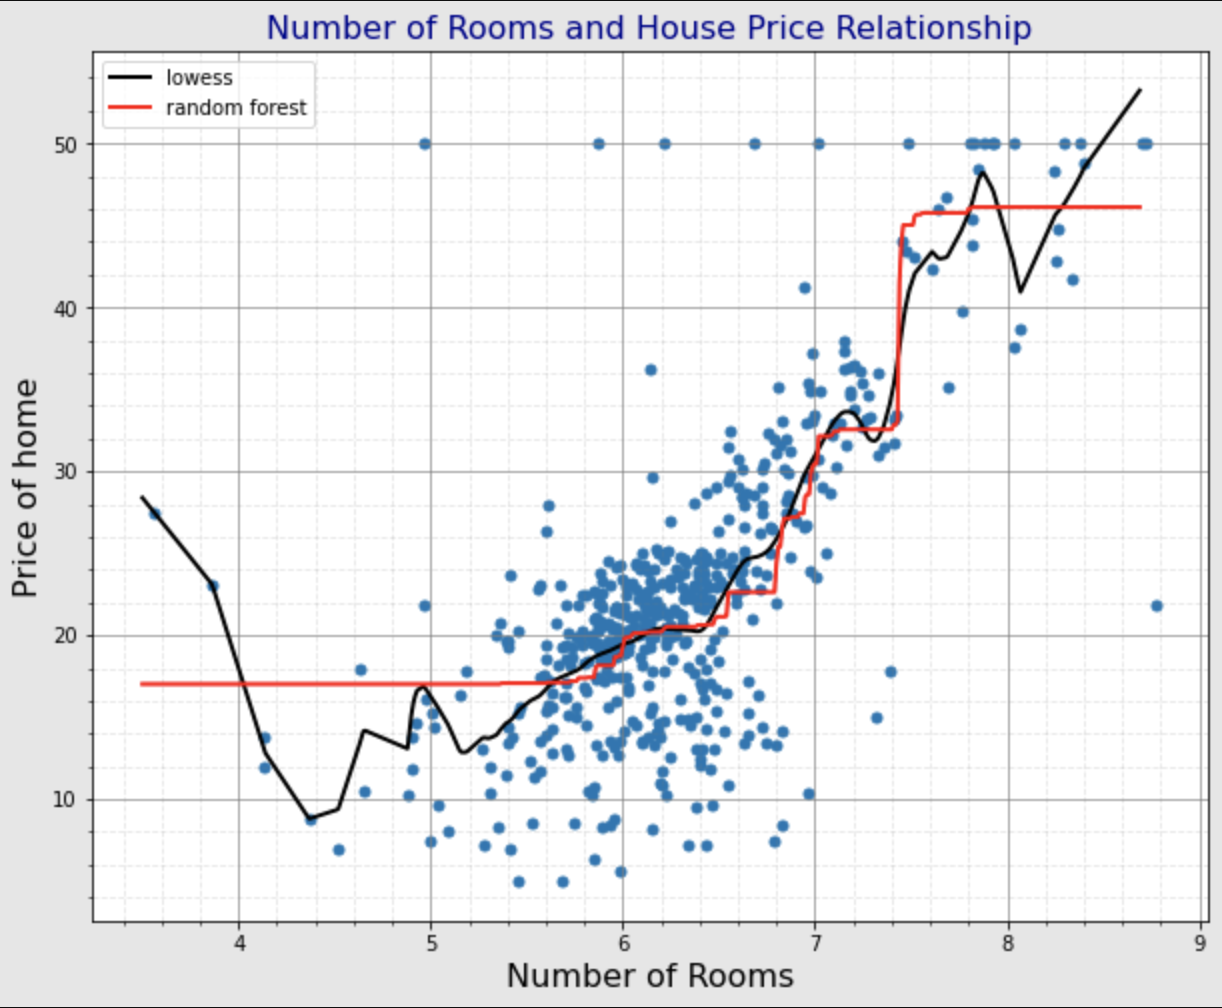
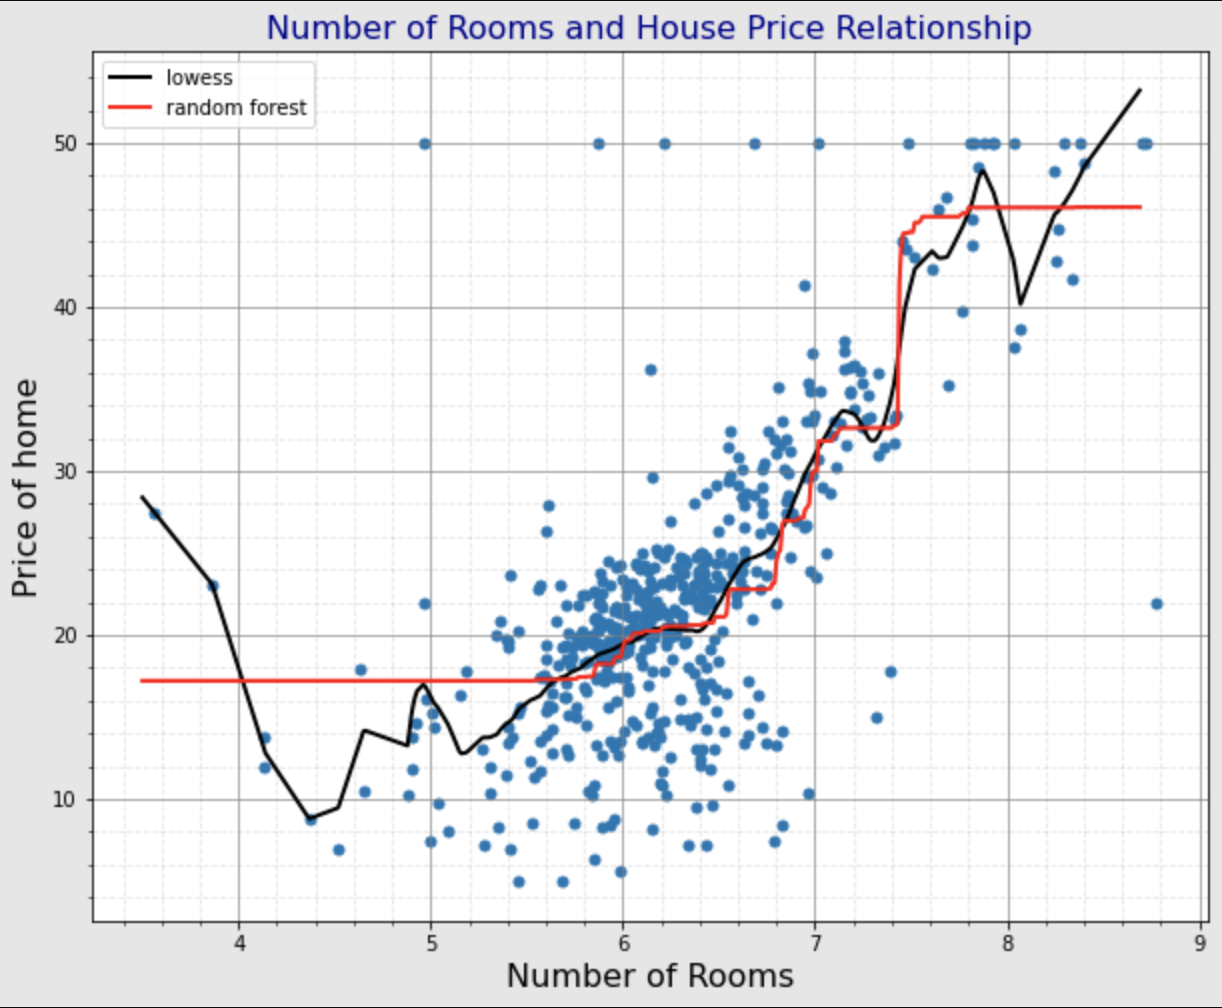
working on project

diff --git a/Project2.md b/Project2.md
@@ -157,11 +157,11 @@ We find the following:
 
 Lowess: Epanechnikov kernel and 0.387 tau results in a cross validated MSE: ~17.486
 
-RF: max_depth 2 with 25 n_estimators results in a cross validated MSE: ~16.530
+RF:  60 n_estimators and 3 max_depth results in a cross validated MSE: ~17.489
 
 Here is our best models compared visually. The black line shows the lowess model, while the red line shows random forest.
 
-<img src="Images/p2/mtcars_overfit.png" width="350">
+<img src="Images/p2/mtcars.png" width="350">
 
 ---
 
@@ -181,7 +181,7 @@ MSE: ~35.532 Tau: 0.09
 
 <img src="Images/p2/boston_ep_tau.png" width="300">
 
-MSE: ~35.562 Tau: 0.09
+MSE: ~35.492 Tau: 0.085
 
 
 Given these results, we will use a tricubic function with a tau of 0.1.
@@ -278,3 +278,19 @@ MSE: ~35.510 n_estimators: 150, max_depth: 2
 
 ---
 ## Conclusions
+
+Best Models for MTCars Data:
+
+Lowess: ~17.486 MSE
+
+Random Forest: ~17.489 MSE
+
+Best Models for Boston Housing Data:
+
+Lowess: ~35.492 MSE
+
+Random Forest: ~35.510 MSE
+
+Ultimately, the models are comparable in their effectiveness for modeling the given data in both cases. That said, the lowess approach was marginally more effective for both the mtcars mpg prediction and the boston house price prediction. Notably, the random forest showed a better looking trend line when graphed, but was not as accurate.
+
+## Overall Winner: Lowess Model
